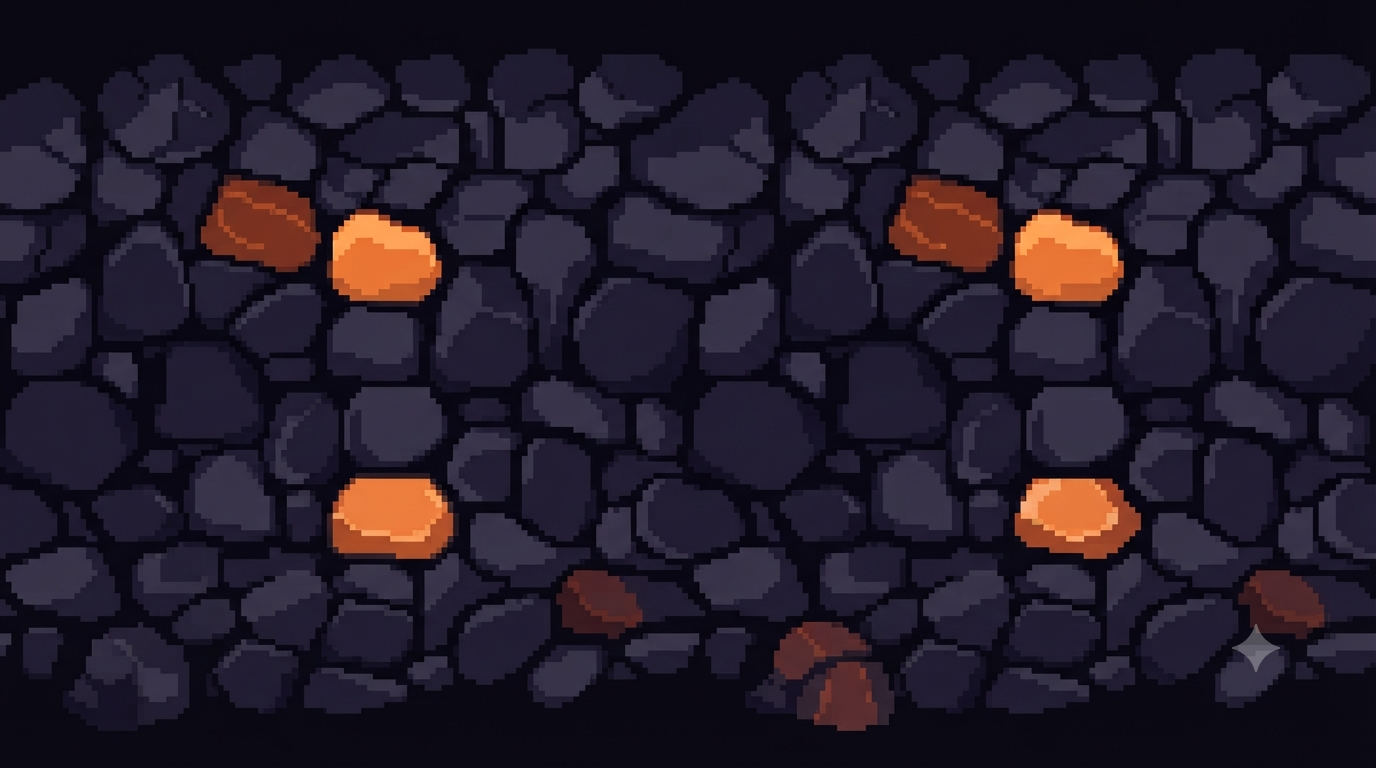
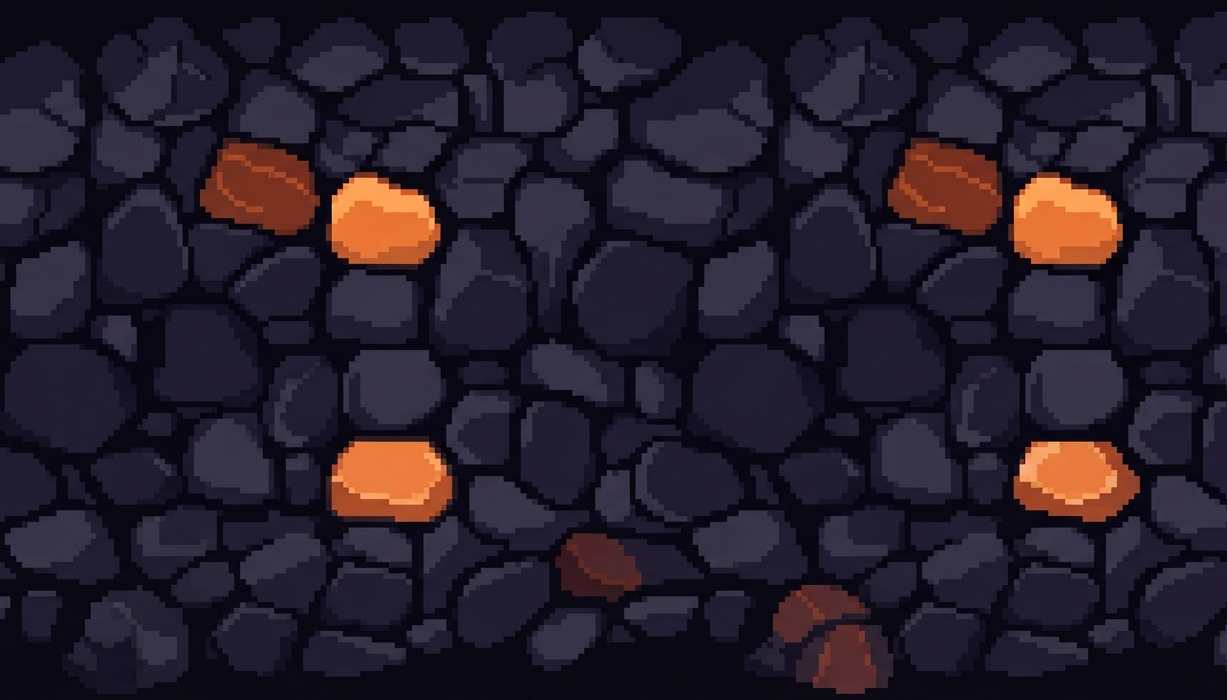
Lava Floor: faster animations + new textures + variations
- Swap rock ceiling to watermark-free version (new lava rocks.png)
- Replace lava body with camo/stripe pattern (new lava lower thing.png)
- Speed up crest frame cycle: 1.2s → 0.7s for snappier bubble animation
- Speed up body drift: 6s → 3.5s for faster molten rise
- Generate 2 variations of lava body texture (horizontal shift + brightness
  variance) to break visual repetition in long play sessions

diff --git a/src/index.css b/src/index.css
@@ -424,7 +424,7 @@
      (top row color-matched to bottom row, so it repeats vertically with no
      seam) — drifts slowly upward in hard steps, not a scrolling wallpaper. */
   .lava-pixel-body-img {
-    animation: lava-body-drift 6s steps(4, end) infinite;
+    animation: lava-body-drift 3.5s steps(4, end) infinite;
   }
   @keyframes lava-body-drift {
     from { background-position: 0 0; }
@@ -437,9 +437,9 @@
   /* Lava crest — cycles through 3 real animation frames via hard opacity
      swaps (no cross-fade), so it plays back like the source flipbook. */
   .lava-crest-frame { opacity: 0; }
-  .lava-crest-frame-a { animation: lava-crest-fa 1.2s steps(1) infinite; }
-  .lava-crest-frame-b { animation: lava-crest-fb 1.2s steps(1) infinite; }
-  .lava-crest-frame-c { animation: lava-crest-fc 1.2s steps(1) infinite; }
+  .lava-crest-frame-a { animation: lava-crest-fa 0.7s steps(1) infinite; }
+  .lava-crest-frame-b { animation: lava-crest-fb 0.7s steps(1) infinite; }
+  .lava-crest-frame-c { animation: lava-crest-fc 0.7s steps(1) infinite; }
   @keyframes lava-crest-fa {
     0%, 33%     { opacity: 1; }
     33.01%, 100% { opacity: 0; }
